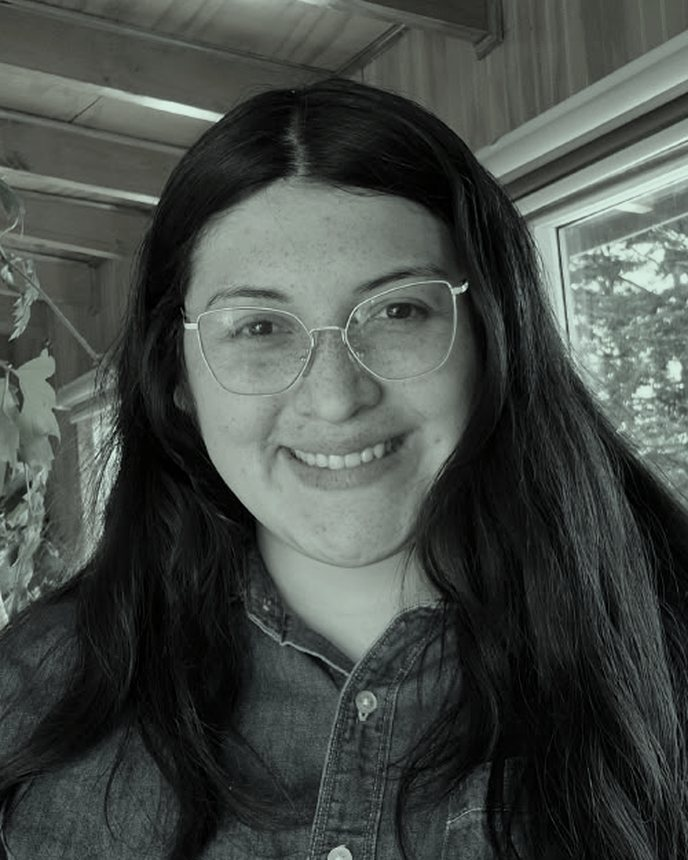
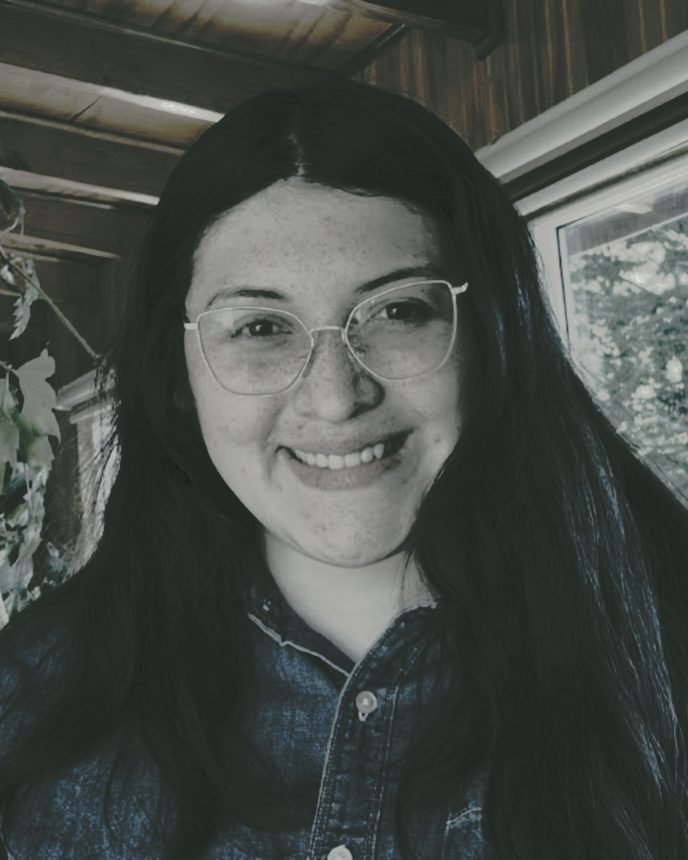
Foto de Danitza con el mismo filtro; Cubica: leer listado de vanos desde texto
Claude-Session: https://claude.ai/code/session_016NoyFJLPfJJnZxdM5PqTqX

diff --git a/cubica.html b/cubica.html
@@ -274,10 +274,41 @@ function fieldHTML(f){var id='f_'+f.k;var v=st[f.k];if(f.sel){return '<label for
 return '<label for="'+id+'"'+(f.ph?' class="wide"':'')+'>'+esc(f.l)+'<input id="'+id+'" data-k="'+f.k+'"'+(f.ph?' placeholder="'+esc(f.ph)+'"':'')+' value="'+esc(v)+'"></label>';}
 function resHTML(r){return '<table><thead><tr><th>Material</th><th class="n">A comprar</th></tr></thead><tbody>'+r[1].map(function(l,i){return '<tr><td>'+esc(l)+'</td><td class="n"><b data-o="'+r[0]+i+'"></b></td></tr>';}).join('')+'</tbody></table>';}
 function matHTML(){var S=['2x4','2x3','SIP 2x4','SIP 2x3','Metalcon 60','Metalcon 90','Bloque'],V=OPT.vn;var h='<div class="mat" role="presentation"><span></span>'+S.map(function(s){return '<b>'+s+'</b>';}).join('');V.forEach(function(n,v){h+='<span>'+esc(n)+'</span>';for(var s=0;s<7;s++){h+='<input id="f_'+M2(v,s)+'" aria-label="'+esc(n+' '+S[s])+'" data-k="'+M2(v,s)+'" value="'+esc(st[M2(v,s)])+'">';}});return '<section><h3>Metros lineales</h3><div class="scroll">'+h+'</div></div></section>';}
+var vTxt='',vMsg='';
+function vParse(txt){var ok=[],bad=[],N=function(s){return s.toLowerCase().normalize('NFD').replace(/[̀-ͯ]/g,'');};
+var cm=function(x){var v=parseFloat(String(x).replace(',','.'));if(v>10)v=v/100;return String(Math.round(v*100)/100).replace('.',',');};
+var RC=['living','comedor','cocina','dormitorio','dorm','bano','estar','pasillo','hall','acceso','lavadero','logia','escritorio','bodega','quincho','oficina','sala','estudio','closet','walk-in','entrada','terraza','galeria','taller','local','recepcion','despensa','vestidor','cafeteria','salon'];
+var NICE={dorm:'Dormitorio',bano:'Baño',galeria:'Galería',recepcion:'Recepción',cafeteria:'Cafetería',salon:'Salón'};
+String(txt||'').split(/\r?\n|;/).forEach(function(raw){var l=raw.trim();if(!l)return;var s=N(l).replace(/\t+/g,' ');
+var dm=s.match(/(\d+(?:[.,]\d+)?)\s*(?:m|cm)?\s*[x×*]\s*(\d+(?:[.,]\d+)?)/);
+if(!dm){var tn=s.match(/(?:^|\s)(\d+(?:[.,]\d+)?)\s+(\d+(?:[.,]\d+)?)(?=\s|$)/);if(tn&&(/[.,]/.test(tn[1]+tn[2])||(+tn[1]>=30&&+tn[2]>=30)))dm=[tn[0],tn[1],tn[2]];}
+if(!dm){var ah=s.match(/ancho\s*:?\s*(\d+(?:[.,]\d+)?).*?alto\s*:?\s*(\d+(?:[.,]\d+)?)/);if(ah)dm=ah;}
+if(!dm){if(!/^(codigo|tipo|cod\b|n°|item)/.test(s))bad.push(l);return;}
+var rest=s.replace(dm[0],' ');
+var cod=(l.match(/\b(PE|PI|VE|VI|V|P)[-\s]?\d+[A-Za-z]?\b/i)||[''])[0].toUpperCase().replace(/[-\s]/,'');
+var t='Ventana';if(/puerta|^p[ei]?\d/.test(s)||/^P[EI]?\d/.test(cod)){t=(/interior|\bint\b/.test(s)||/^PI/.test(cod))?'Puerta interior':'Puerta exterior';}
+var c=1,q=rest.match(/(?:^|\s)x\s*(\d{1,2})\b|\b(\d{1,2})\s*(?:u|un|und|unid|unidades|ventanas?|puertas?)\b|cant(?:idad)?\.?\s*:?\s*(\d{1,2})|\((\d{1,2})\)/);if(q)c=+(q[1]||q[2]||q[3]||q[4])||1;
+var o='Norte';if(/\bsur\b/.test(s)||/\bS\b/.test(l))o='Sur';else if(/oriente|poniente|\beste\b|\boeste\b|\bOP\b/.test(s)||/\b(OR|PO|OP)\b/.test(l))o='Oriente-Poniente';
+var ori=/\bnorte\b|\bsur\b|oriente|poniente|\beste\b|\boeste\b/.test(s)||/\b(N|S|OP|OR|PO)\b/.test(l);
+var isW=t=='Ventana',A=isW?['fija','corredera','proyectante','abatible']:['abatible','corredera','fija'],ap=isW?'Corredera':'Abatible';
+A.forEach(function(a){if(s.indexOf(a.slice(0,5))>=0)ap=a[0].toUpperCase()+a.slice(1);});
+var g=/simple|monolit/.test(s)?'Simple':'Termopanel',m=/alum/.test(s)?'Aluminio':/madera/.test(s)?'Madera':'PVC';
+var e='Transparente';['empavonado','catedral','semilla','laminado'].forEach(function(x){if(s.indexOf(x)>=0)e=x[0].toUpperCase()+x.slice(1);});
+var di=/vertical/.test(s)?'Vertical al medio':/horizontal/.test(s)?'Horizontal al medio':'Sin división';
+var mv=s.match(/muro\s*:?\s*(v[1-4])/),v=mv?mv[1].toUpperCase():(t=='Puerta interior'?'V3':'V1');
+var r='';for(var k=0;k<RC.length;k++){var rm=rest.match(new RegExp('\\b('+RC[k]+')\\w*(\\s*(?:n°\\s*)?\\d{1,2}(?![.,\\d]))?'));if(rm){var w0=NICE[RC[k]]||(RC[k][0].toUpperCase()+RC[k].slice(1));r=w0+(rm[2]?' '+rm[2].replace(/n°\s*/,'').trim():'');break;}}
+var u=isW?OPT.uw[g+'|'+m]:(t=='Puerta exterior'?'1,7':'');
+ok.push({e:e,g:g,m:m,ap:ap,di:di,r:r,t:t,n:cod,v:v,o:o,a:cm(dm[1]),h:cm(dm[2]),c:c,u:u,_o:ori});});
+return {ok:ok,bad:bad};}
+function vLeer(rep){var R=vParse(vTxt);if(!R.ok.length){vMsg='No encontré medidas. Cada línea necesita ancho x alto, por ejemplo 1,2 x 1,0.';render();return;}
+snap();if(rep)vanos=[];var cnt={V:0,PE:0,PI:0};vanos.forEach(function(w){var k=w.t=='Ventana'?'V':w.t=='Puerta exterior'?'PE':'PI';cnt[k]++;});
+var sinO=0;R.ok.forEach(function(w){var k=w.t=='Ventana'?'V':w.t=='Puerta exterior'?'PE':'PI';if(!w.n){do{cnt[k]++;}while(vanos.concat(R.ok).some(function(x){return x.n==k+cnt[k];}));w.n=k+cnt[k];}if(!w._o&&w.t!='Puerta interior')sinO++;delete w._o;vanos.push(w);});
+vMsg='Agregué '+R.ok.length+' vano'+(R.ok.length>1?'s':'')+'. Revisa cada uno abajo.'+(sinO?' '+sinO+' sin orientación quedaron en Norte.':'')+(R.bad.length?' No entendí: «'+R.bad.slice(0,4).join('», «')+'».':'');
+vTxt='';save();render();}
 function vanosHTML(){var opts=function(a,v){return a.map(function(o){return '<option'+(o==v?' selected':'')+'>'+esc(o)+'</option>';}).join('');};
 var fd=function(i,f,l,v){return '<label for="v'+i+f+'">'+l+'<input id="v'+i+f+'" data-v="'+i+'" data-f="'+f+'" value="'+esc(v)+'"></label>';},sl=function(i,f,l,a,v){return '<label for="v'+i+f+'">'+l+'<select id="v'+i+f+'" data-v="'+i+'" data-f="'+f+'">'+opts(a,v)+'</select></label>';};
 var rows=vanos.map(function(w,i){var isW=w.t=='Ventana',ext=w.t!='Puerta interior',A=isW?OPT.apv:OPT.app;return '<div class="vano"><div class="skw" data-sk="'+i+'">'+sketchSVG(w,56)+'</div><div class="vf">'+fd(i,'n','Código',w.n)+sl(i,'t','Tipo',OPT.tip,w.t)+fd(i,'r','Recinto',w.r||'')+sl(i,'ap','Apertura',A,w.ap)+(isW?sl(i,'di','División',OPT.div,w.di):'')+(isW?sl(i,'g','Vidrio',OPT.vid,w.g)+sl(i,'e','Estilo de vidrio',OPT.est,w.e)+sl(i,'m','Marco',OPT.mar,w.m):'')+sl(i,'v','Muro',['V1','V2','V3','V4'],w.v)+(ext?sl(i,'o','Orientación',OPT.ori,w.o):'')+fd(i,'a','Ancho',w.a)+fd(i,'h','Alto',w.h)+fd(i,'c','Cant.',w.c)+(ext?fd(i,'u','U',w.u):'')+'<label>m²<span data-sup="'+i+'" class="supv"></span></label></div><button class="x" aria-label="Quitar vano '+esc(w.n)+'" data-del="'+i+'">×</button></div>';}).join('');
-return '<div class="box"><div style="display:grid;gap:12px">'+rows+'</div><div class="row"><button class="btn sec" id="addW">Agregar ventana</button><button class="btn sec" id="addP">Agregar puerta exterior</button><button class="btn sec" id="addI">Agregar puerta interior</button></div><p class="note">El U se propone según vidrio y marco, sin datos de ensayo, y puedes cambiarlo. Puerta opaca: U máximo 1,7 W/m²K. Si tiene vidrio, regístrala como ventana.</p><details><summary>Tabla de U de referencia</summary><div class="scroll"><table><thead><tr><th>Vidrio</th><th>Marco</th><th class="n">U W/m²K</th></tr></thead><tbody>'+Object.keys(OPT.uw).map(function(k){var a=k.split('|');return '<tr><td>'+a[0]+'</td><td>'+a[1]+'</td><td class="n">'+OPT.uw[k]+'</td></tr>';}).join('')+'</tbody></table></div><p class="note">Estimación con 25 % de marco. Para la memoria, usa el U del fabricante, un ensayo o el Listado Oficial.</p></details></div><div class="box" style="margin-top:18px"><h3>Muro exterior por orientación (ml)</h3><div class="grid">'+[F('mlN','Norte'),F('mlO','Oriente-Poniente'),F('mlS','Sur')].map(fieldHTML).join('')+'</div></div>';}
+return '<div class="box" style="margin-bottom:18px"><h3>Escribir o pegar la lista</h3><label for="vtxt">Un vano por línea: código, recinto, ancho x alto, orientación y lo que sepas (apertura, vidrio, marco, cantidad). También puedes pegar filas copiadas de Excel.<textarea id="vtxt" rows="6" placeholder="V1 living 1,2 x 1,2 norte corredera\nV2 dormitorio 1 100x120 oriente proyectante\n2 ventanas baño 0,6 x 0,4 sur empavonado\nPE1 puerta acceso 0,9 x 2,0 sur\nPI puerta interior dormitorio 0,7 x 2">'+esc(vTxt)+'</textarea></label><div class="row"><button class="btn" id="vLeer">Reemplazar los vanos con la lista</button><button class="btn sec" id="vSum">Sumar a los vanos actuales</button></div>'+(vMsg?'<p class="msg" role="status">'+esc(vMsg)+'</p>':'')+'</div><div class="box"><div style="display:grid;gap:12px">'+rows+'</div><div class="row"><button class="btn sec" id="addW">Agregar ventana</button><button class="btn sec" id="addP">Agregar puerta exterior</button><button class="btn sec" id="addI">Agregar puerta interior</button></div><p class="note">El U se propone según vidrio y marco, sin datos de ensayo, y puedes cambiarlo. Puerta opaca: U máximo 1,7 W/m²K. Si tiene vidrio, regístrala como ventana.</p><details><summary>Tabla de U de referencia</summary><div class="scroll"><table><thead><tr><th>Vidrio</th><th>Marco</th><th class="n">U W/m²K</th></tr></thead><tbody>'+Object.keys(OPT.uw).map(function(k){var a=k.split('|');return '<tr><td>'+a[0]+'</td><td>'+a[1]+'</td><td class="n">'+OPT.uw[k]+'</td></tr>';}).join('')+'</tbody></table></div><p class="note">Estimación con 25 % de marco. Para la memoria, usa el U del fabricante, un ensayo o el Listado Oficial.</p></details></div><div class="box" style="margin-top:18px"><h3>Muro exterior por orientación (ml)</h3><div class="grid">'+[F('mlN','Norte'),F('mlO','Oriente-Poniente'),F('mlS','Sur')].map(fieldHTML).join('')+'</div></div>';}
 function num(x){return parseFloat(String(x==null?'':x).replace(',','.'))||0;}
 function sugg(){var r=[],a=function(m){r.push(['a',m]);},t=function(m){r.push(['t',m]);},c=cur,all=c=='descargas',sumV=function(v){var q=0;for(var i=0;i<7;i++)q+=num(st['m'+v+'_'+i]);return q;},ext=sumV(0)+sumV(1);
 if(c=='tramite'&&(st.area||'Urbano')=='Rural'&&dests.some(function(x){return x.d=='Vivienda';}))t('En área rural, confirma con la SEREMI de Agricultura y la DOM si corresponde IFC.');if(c=='artefactos'&&!arts.length)a('La lista de artefactos está vacía.');if(c=='auto'){t('Incluye comuna, medidas de la planta, muros en ml, pisos en m², techo y ventanas con orientación.');}if(c=='termica'||all){if(r1Ex()>0&&!r1Pr())a('Sobrecimiento: elige aislante y espesor. La zona exige R100 '+r1Ex()+': sirve '+r1Fix()+'.');if(st.zona!='I'&&st.zona!='I(p)')t('En esta zona el % de ventanas usa solo la columna U 2,4. Verifica el valor con tu U real.');OPT.me.forEach(function(n,i){if(out['mE'+i]=='NO CUMPLE')a(n+': aumenta el aislante o cambia de sistema.');});}if(c=='proyecto'||all){if(!st.cli||st.cli=='Ejemplo')a('Reemplaza el cliente y la obra de ejemplo.');if(st.tfir=='Representante legal'&&!st.rep)a('Falta el nombre del representante legal.');if(!st.arq)t('Completa el nombre del arquitecto para firmar la memoria.');if(/futaleuf|palena/i.test(st.com||'')&&st.zona!='I(p)')a('Futaleufú y Palena corresponden a zona I(p).');if(/chait/i.test(st.com||'')&&st.zona!='G')a('Chaitén corresponde a zona G según la Res. 1802/2025.');if(dests.some(function(x){return x.d!='Vivienda';}))t('Las EETT ya incluyen baños con accesibilidad universal. Revisa también la ocupación y las exigencias del destino.');}
@@ -816,9 +847,9 @@ document.getElementById('estado').textContent=out.mG||'Revisar datos';sidePaint(
 document.querySelectorAll('[data-e]').forEach(function(e){var i=e.dataset.e;if(document.activeElement!==e)e.value=(ov[i]!=null?ov[i]:out['e'+i]);});
 document.querySelectorAll('[data-sup]').forEach(function(e){var w=vanos[e.dataset.sup];e.textContent=(num(w.a)*num(w.h)*num(w.c)).toFixed(2).replace('.',',');});document.querySelectorAll('[data-sk]').forEach(function(e){var w=vanos[e.dataset.sk];e.innerHTML=sketchSVG(w,56);});document.querySelectorAll('[data-cg]').forEach(function(e){var x=dests[e.dataset.cg],s=num(x.s),f=x.d=='Vivienda'?(s<=60?15:(s<=140?20:30)):OPT.cdes.find(function(q){return q[0]==x.d;})[1];e.textContent=s>0?f.toString().replace('.',',')+' m²/pers · '+(Math.ceil(Math.round(s/f*1e6)/1e6)*dC(x))+' pers':'';});var tl=document.getElementById('traL');if(tl)tl.innerHTML=traList();var cgt=document.getElementById('cgT');if(cgt)cgt.textContent='Carga de ocupación: '+carga()+' personas';var ds=document.getElementById('dash');if(ds){var LNK={Cubicación:'fundacion',EETT:'eett','Memoria térmica':'termica','Listado de vanos':'vanos',Artefactos:'artefactos'};ds.innerHTML=reqs().map(function(q){var n=q[1].filter(function(i){return i.ok;}).length,t=q[1].length;return '<button class="dk" data-go="'+LNK[q[0]]+'"><b>'+q[0]+'</b><span class="bar"><i style="width:'+Math.round(n/t*100)+'%"></i></span><span>'+(n==t?'Listo':n+' de '+t+' datos')+'</span></button>';}).join('');}}
 function go(id){cur=id;try{history.replaceState(null,'','#'+id);}catch(e){location.hash=id;}render();window.scrollTo(0,0);}
-document.addEventListener('input',function(e){var t=e.target,d=t.dataset;if(d.k){var old_=st[d.k];st[d.k]=t.value;if(d.k=='sp1'&&(!st.m2f||String(st.m2f)==String(old_))){st.m2f=t.value;}if(d.k=='m2f'&&(!st.sp1||String(st.sp1)==String(old_))){st.sp1=t.value;}if(d.k=='com'){var zz=/futaleuf|palena/i.test(t.value)?'I(p)':/chait/i.test(t.value)?'G':'';if(zz&&OPT.zona.indexOf(zz)>=0)st.zona=zz;}if(d.k=='L'||d.k=='A')st.tecMan=1;if(d.k=='ag_a1'||d.k=='ag_a2'){var ss=num(st.ag_a1)+num(st.ag_a2);if(ss>0){st.A=nf(ss);st.tecMan=1;var fa=document.getElementById('f_A');if(fa)fa.value=st.A;}}if(d.k=='ag')setTimeout(render,0);}else if(d.a!=null){arts[d.a][d.f]=t.value;}else if(d.dd!=null){dests[d.dd][d.f]=t.value;}else if(d.xd!=null){xdoc[d.xd].t=t.value;}else if(d.rc!=null){rec[d.rc][d.f]=t.value;save();if(document.getElementById('accT'))accPaint();return;}else if(d.f&&d.v!=null){vanos[d.v][d.f]=t.value;}else if(d.e!=null){ov[d.e]=t.value;}else if(t.id=='autoT'){autoTxt=t.value;save();return;}else return;save();paint();});
+document.addEventListener('input',function(e){var t=e.target,d=t.dataset;if(d.k){var old_=st[d.k];st[d.k]=t.value;if(d.k=='sp1'&&(!st.m2f||String(st.m2f)==String(old_))){st.m2f=t.value;}if(d.k=='m2f'&&(!st.sp1||String(st.sp1)==String(old_))){st.sp1=t.value;}if(d.k=='com'){var zz=/futaleuf|palena/i.test(t.value)?'I(p)':/chait/i.test(t.value)?'G':'';if(zz&&OPT.zona.indexOf(zz)>=0)st.zona=zz;}if(d.k=='L'||d.k=='A')st.tecMan=1;if(d.k=='ag_a1'||d.k=='ag_a2'){var ss=num(st.ag_a1)+num(st.ag_a2);if(ss>0){st.A=nf(ss);st.tecMan=1;var fa=document.getElementById('f_A');if(fa)fa.value=st.A;}}if(d.k=='ag')setTimeout(render,0);}else if(d.a!=null){arts[d.a][d.f]=t.value;}else if(d.dd!=null){dests[d.dd][d.f]=t.value;}else if(d.xd!=null){xdoc[d.xd].t=t.value;}else if(d.rc!=null){rec[d.rc][d.f]=t.value;save();if(document.getElementById('accT'))accPaint();return;}else if(d.f&&d.v!=null){vanos[d.v][d.f]=t.value;}else if(d.e!=null){ov[d.e]=t.value;}else if(t.id=='autoT'){autoTxt=t.value;save();return;}else if(t.id=='vtxt'){vTxt=t.value;vMsg='';return;}else return;save();paint();});
 document.addEventListener('change',function(e){var t=e.target,d=t.dataset;if(d.chk){chk[d.chk]=t.checked;save();traBar();rutaPaint();var tl2=document.getElementById('traL');if(tl2){var fid=t.id;tl2.innerHTML=traList();var nx=document.getElementById(fid);if(nx)nx.focus();}return;}if(d.rc!=null){rec[d.rc][d.f]=t.value;save();paint();return;}if(t.tagName=='SELECT'){if(d.dd!=null){dests[d.dd][d.f]=t.value;arts=sugArts();save();paint();return;}if(d.k){st[d.k]=t.value;if(d.k=='trt'){st.eer=t.value=='Regularización'?'Resumidas':'Completas';save();paint();return;}if(d.k=='ft'){save();render();return;}if(d.k=='rext'){var dv=OPT.rem[t.value];st.rem=dv==null?'':dv;save();render();return;}}if(d.f&&d.v!=null){var w=vanos[d.v];w[d.f]=t.value;if(d.f=='g'||d.f=='m'||d.f=='t'){if(w.t=='Ventana'){w.u=OPT.uw[(w.g||'Termopanel')+'|'+(w.m||'PVC')];w.ap=OPT.apv.indexOf(w.ap)>=0?w.ap:'Corredera';}else{w.u='1,7';w.ap=OPT.app.indexOf(w.ap)>=0?w.ap:'Abatible';if(w.t=='Puerta interior'&&(w.v=='V1'||w.v=='V2'))w.v='V3';}save();render();return;}if(d.f=='ap'||d.f=='di'){save();render();return;}}save();paint();}});
-document.addEventListener('click',function(e){var t=e.target.closest('button');if(!t)return;var d=t.dataset;if(d.go){go(d.go);if(d.fx){var fe=document.getElementById(d.fx);if(fe){fe.focus();fe.scrollIntoView({block:'center'});fe.classList.add('pulse');setTimeout(function(){fe.classList.remove('pulse');},1800);}}else if(document.getElementById('sug'))window.scrollTo(0,0);}else if(d.del!=null){vanos.splice(+d.del,1);save();render();}else if(t.id=='addW'||t.id=='addP'||t.id=='addI'){var p=t.id!='addW',ii=t.id=='addI';vanos.push({e:'Transparente',g:'Termopanel',m:'PVC',ap:p?'Abatible':'Corredera',di:'Sin división',r:'',t:ii?'Puerta interior':(p?'Puerta exterior':'Ventana'),n:(ii?'PI':(p?'PE':'V'))+(vanos.length+1),v:ii?'V3':'V1',o:'Norte',a:p?(ii?'0,8':'0,9'):'1,2',h:p?'2':'1,2',c:1,u:p?'1,7':'2,45'});save();render();}else if(d.ua&&ARQS[d.ua]){var A_=ARQS[d.ua];if(st.arq!==A_.arq)st.arut='';Object.assign(st,A_);st.val=1;save();render();}else if(t.id=='addD'){dests.push({n:'',d:dests[0].d,c:1,s:''});save();render();}else if(d.deld!=null){if(dests.length>1)dests.splice(+d.deld,1);save();render();}else if(t.id=='addA'){arts.push({n:'',r:'',c:1});save();render();}else if(t.id=='sugA'){arts=sugArts();save();render();}else if(d.dela!=null){arts.splice(+d.dela,1);save();render();}else if(d.xls)exportFile('cub',t,'xlsx');else if(t.id=='autoGo')interpret();else if(t.id=='nomC'){var nt=document.getElementById('nomT'),nm=document.getElementById('nomM');Promise.resolve().then(function(){return navigator.clipboard.writeText(nt.value);}).then(function(){nm.textContent='Copiado.';},function(){nt.hidden=false;nt.select();nm.textContent='Selecciona y copia el texto.';});}else if(t.id=='autoStop'){if(ctl)ctl.abort();}else if(t.id=='autoEx'){autoTxt=OPT.ejemplo;document.getElementById('autoT').value=autoTxt;save();}else if(t.id=='autoApply')applyProp();else if(t.id=='autoDrop'){prop=null;showProp();}else if(d.pdf)exportFile(d.pdf,t,'pdf');else if(d.doc)exportFile(d.doc,t,'docx');else if(t.id=='resetE'){ov={};save();paint();document.querySelectorAll('[data-e]').forEach(function(e){e.value=out['e'+e.dataset.e];});}else if(t.id=='clearT'){clearTab(cur);}else if(t.id=='newO'){newObra();}else if(t.id=='undoN'){undoRes();}});
+document.addEventListener('click',function(e){var t=e.target.closest('button');if(!t)return;var d=t.dataset;if(d.go){go(d.go);if(d.fx){var fe=document.getElementById(d.fx);if(fe){fe.focus();fe.scrollIntoView({block:'center'});fe.classList.add('pulse');setTimeout(function(){fe.classList.remove('pulse');},1800);}}else if(document.getElementById('sug'))window.scrollTo(0,0);}else if(d.del!=null){vanos.splice(+d.del,1);save();render();}else if(t.id=='vLeer'||t.id=='vSum'){vLeer(t.id=='vLeer');}else if(t.id=='addW'||t.id=='addP'||t.id=='addI'){var p=t.id!='addW',ii=t.id=='addI';vanos.push({e:'Transparente',g:'Termopanel',m:'PVC',ap:p?'Abatible':'Corredera',di:'Sin división',r:'',t:ii?'Puerta interior':(p?'Puerta exterior':'Ventana'),n:(ii?'PI':(p?'PE':'V'))+(vanos.length+1),v:ii?'V3':'V1',o:'Norte',a:p?(ii?'0,8':'0,9'):'1,2',h:p?'2':'1,2',c:1,u:p?'1,7':'2,45'});save();render();}else if(d.ua&&ARQS[d.ua]){var A_=ARQS[d.ua];if(st.arq!==A_.arq)st.arut='';Object.assign(st,A_);st.val=1;save();render();}else if(t.id=='addD'){dests.push({n:'',d:dests[0].d,c:1,s:''});save();render();}else if(d.deld!=null){if(dests.length>1)dests.splice(+d.deld,1);save();render();}else if(t.id=='addA'){arts.push({n:'',r:'',c:1});save();render();}else if(t.id=='sugA'){arts=sugArts();save();render();}else if(d.dela!=null){arts.splice(+d.dela,1);save();render();}else if(d.xls)exportFile('cub',t,'xlsx');else if(t.id=='autoGo')interpret();else if(t.id=='nomC'){var nt=document.getElementById('nomT'),nm=document.getElementById('nomM');Promise.resolve().then(function(){return navigator.clipboard.writeText(nt.value);}).then(function(){nm.textContent='Copiado.';},function(){nt.hidden=false;nt.select();nm.textContent='Selecciona y copia el texto.';});}else if(t.id=='autoStop'){if(ctl)ctl.abort();}else if(t.id=='autoEx'){autoTxt=OPT.ejemplo;document.getElementById('autoT').value=autoTxt;save();}else if(t.id=='autoApply')applyProp();else if(t.id=='autoDrop'){prop=null;showProp();}else if(d.pdf)exportFile(d.pdf,t,'pdf');else if(d.doc)exportFile(d.doc,t,'docx');else if(t.id=='resetE'){ov={};save();paint();document.querySelectorAll('[data-e]').forEach(function(e){e.value=out['e'+e.dataset.e];});}else if(t.id=='clearT'){clearTab(cur);}else if(t.id=='newO'){newObra();}else if(t.id=='undoN'){undoRes();}});
 window.addEventListener('hashchange',function(){var h=location.hash.slice(1);if(h&&h!=cur&&STEPS.some(function(x){return x.id==h;})){cur=h;render();}});
 function INFO(){return [['Cliente','cli']].concat(st.rep?[['Representante legal','rep']]:[]).concat([['Obra','obr'],['Dirección','dir'],['Comuna','com'],['Rol','rol'],['Arquitecto','arq'],['RUT arquitecto','arut'],['Patente','apat'],['Fecha','fec']]).filter(function(p){return (p[1]!='arut'&&p[1]!='apat')||st[p[1]];});}
 function clean(s){return String(s==null?'':s).replace(/\u00b2/g,'2').replace(/\u00b3/g,'3').replace(/−|–|—/g,'-').replace(/λ/g,'lambda').replace(/≤/g,'<=').replace(/\r/g,'').replace(/[^\n\x20-\x7e\xa0-\xff]/g,'?');}
